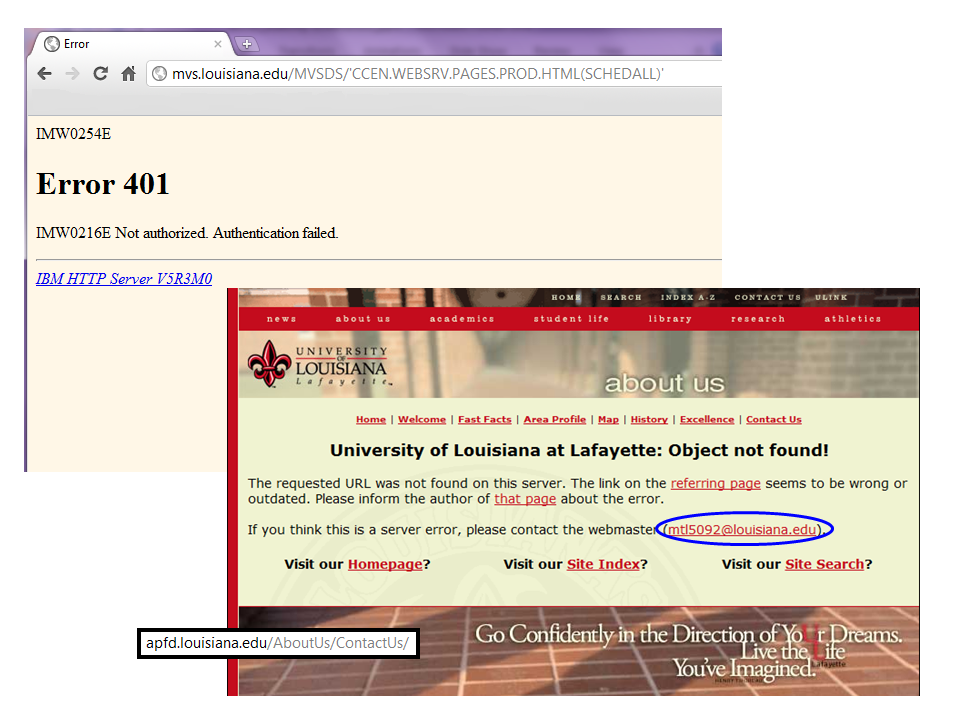
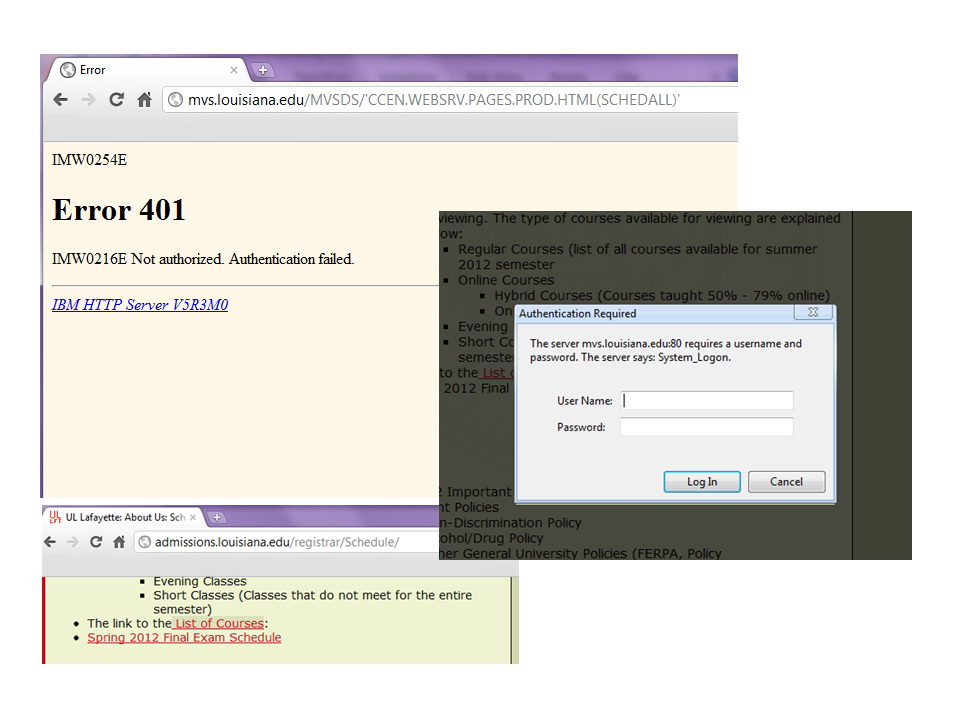
error msg

diff --git a/errorrecovery.html b/errorrecovery.html
@@ -81,7 +81,7 @@
 	 <div class="descriptioncriteria" id="errorrecoverycolor"><p id="sizetext">"Error messages should be expressed in plain language (no codes), precisely indicate the problem, and constructively suggest a solution".</p></div>
 	 <div class="row">
 	    <div class="span4">
-	      <a class="gallery" rel="errorrecovery" href="images/errorrecovery_large.png" title="Help Users Recognize, and Diagnose from Errors (1/2)">
+	      <a class="gallery" rel="errorrecovery" href="images/errorrecovery_large.png" title="Help Users Recognize, and Diagnose from Errors (1 of 3)">
 	    <img class="title2" src="images/errorrecovery.png"></a></div>
 	    <div class="span5"><p id="text">This error message does an effective job clearly illustrating that an error has occurred.  As far as recovering from an error, we believe that
 	    this method is satisfactory.</p><p id="text">Within this form, the recovery from the error is presented in a way that forces the user to resort to
@@ -90,22 +90,35 @@
 	 </div>
 	 
 	  <div class="row">
-	    <div class="span4"><a class="gallery" rel="errorrecovery" href="images/rachel_screenshots/9_recovery.png" title="Help Users Recognize, and Diagnose from Errors (2/2)">
+	    <div class="span4"><a class="gallery" rel="errorrecovery" href="images/rachel_screenshots/9_recovery.png" title="Help Users Recognize, and Diagnose from Errors (2 of 3)">
 	    <img class="title2" src="images/rachel_screenshots/9_recovery.png"></a></div>
-	    <div class="span5"><p id="text">Here are two error pages we
-	    encountered while navigating the site. The one on top is a
-	    server-generated error displayed when we failed to enter login
-	    information to view the s
+	    <div class="span5"><p id="text">This error message displayed when we
+	    failed to enter login
+	    information to view the list of courses. We are forced to
+	    encounter this error message because we do not have this
+	    information and have to press cancel. A simple "requires login"
+	    on the original page would be very helpful.</p></div>
+	  </div>
+	  
 	    
-	    
-	    On this "about us" page we noticed
-	    that when you try to send an email to the webmaster, they did not
-	    usa a correct <mailto:>. As a result, the page that follows is a
-	    classic error message that many will not understand even today. </p>
-	    <p id="text">In addition, the three links to "Visit our Homepage",
-	    "Visit our Site Index", or "Visit Our Site Search" are very
-	    outdated. Perhaps updating the site is on the to-do list for this
-	    school. </p></div>
+	  <div class="row">
+	    <div class="span4"><a class="gallery" rel="errorrecovery" href="images/rachel_screenshots/9_recover_2.png" title="Help Users Recognize, and Diagnose from Errors (3 of 3)">
+	    <img class="title2" src="images/rachel_screenshots/9_recover_2.png"></a></div>
+	    <div class="span5"><p id="text">This error message occurred due to
+	    a bad pathway. The "Contact Us" link that we clicked from the UL
+	    Lafayette College of Arts program page is a dead link, although
+	    we assumed that it would help us get in touch with someone
+	    at the College of Arts. </p>
+	    <p id="text">The error page offers links back to the page
+	    we came from as well as the homepage, index, and search tool. It also
+	    requests that we let someone know about the problem that occurred,
+	    but we have no idea who the author of "that page" is, or how to find
+	    it--after all, we were looking for some contact
+	    information in the first place.</p>
+	    <p id="text">We
+	    noticed that the e-mail for the webmaster is different from
+	    the one in the footer, which makes us wonder if this page
+	    itself is outdated. </p></div>
 	 </div>
 	 
         </div>
